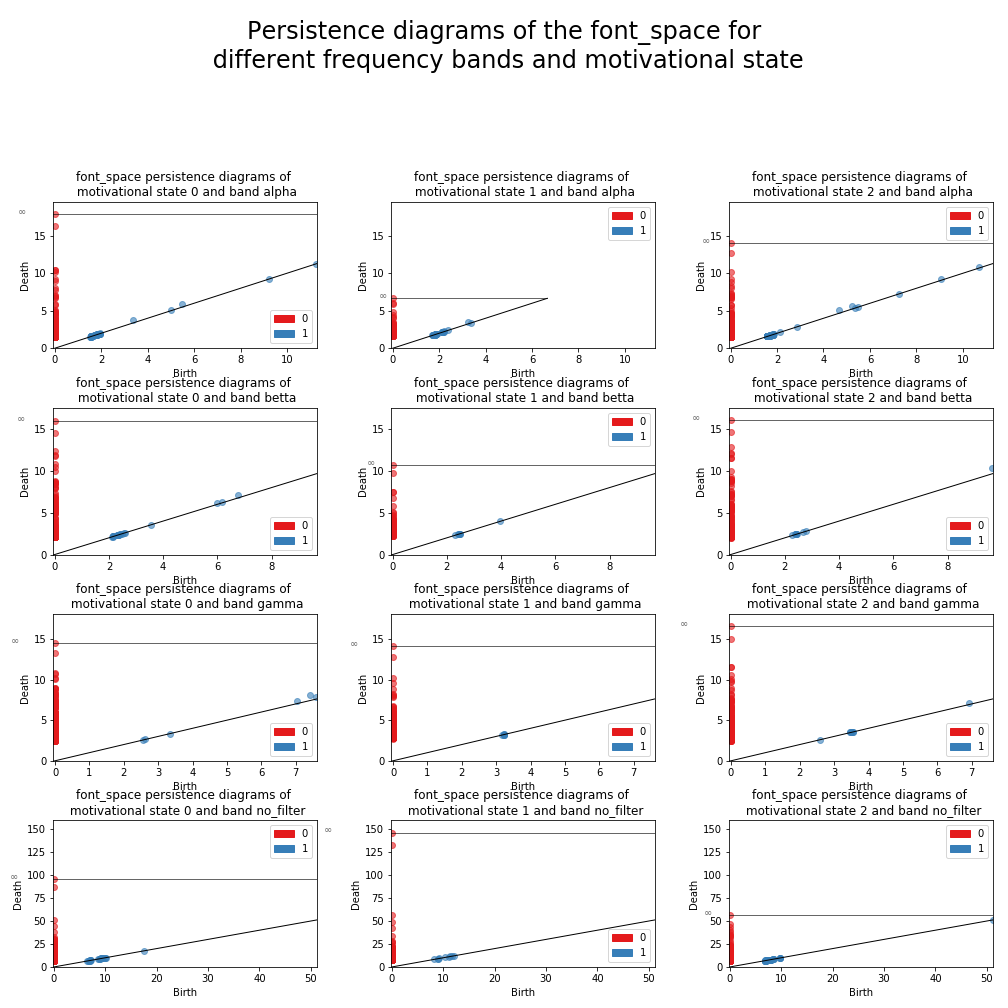
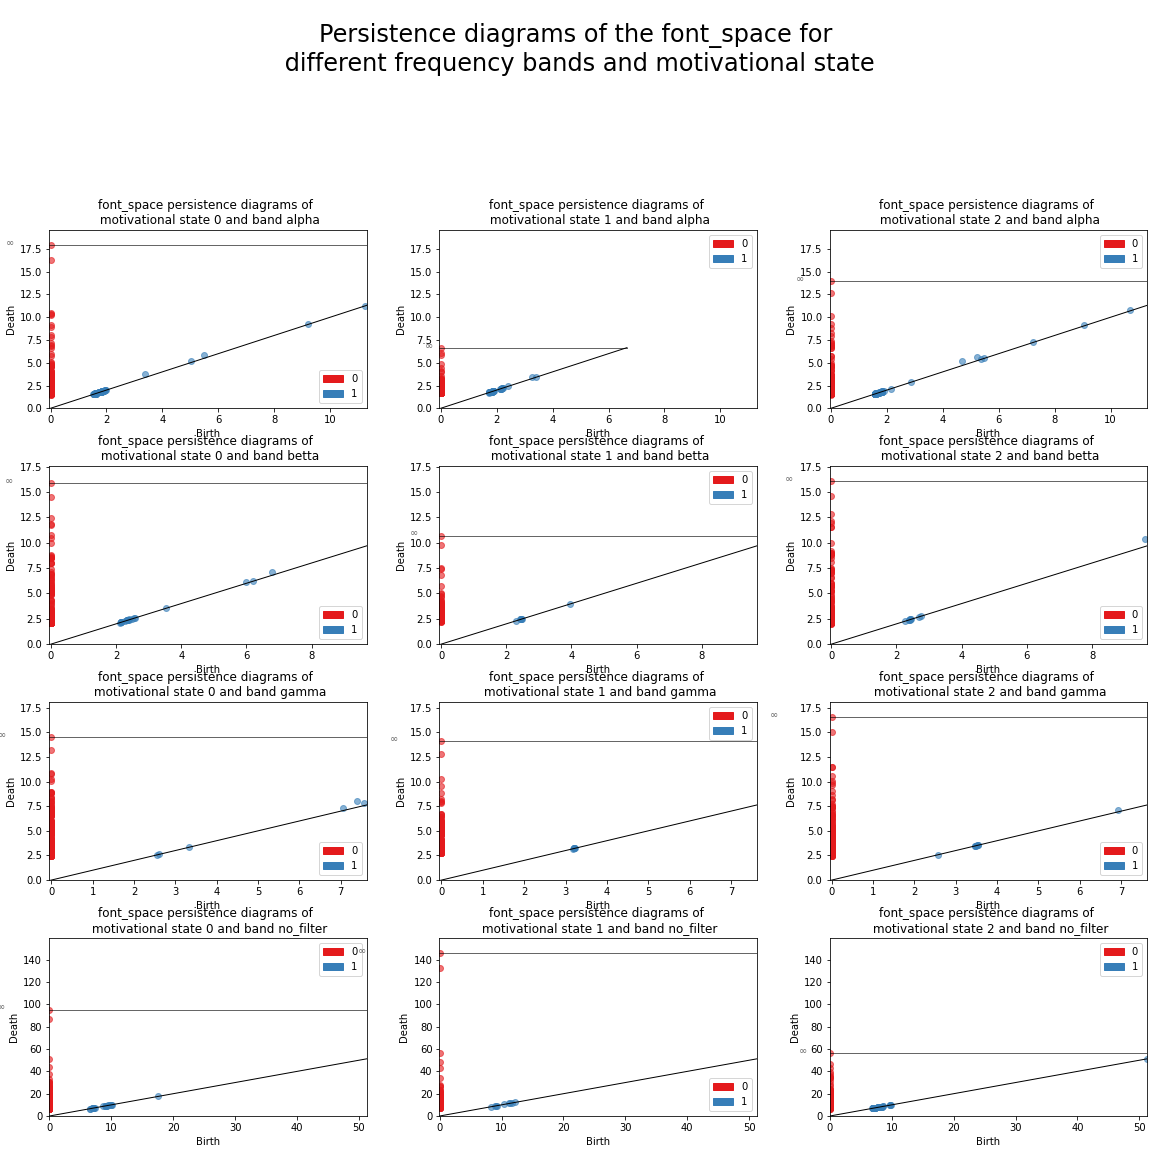
max pooling and entropy completed

diff --git a/topological_descriptors.py b/topological_descriptors.py
@@ -89,22 +89,32 @@ def compute_basicstats(zero_dim,one_dim,subj_dir,space,measure,feat='life',pool_
             zero_lifes[i].append(np.array(list(map(fun, zero_dim[i][j]))))
             one_lifes[i].append(np.array(list(map(fun, one_dim[i][j]))))
             zero_L=zero_lifes[i][j].sum()
-            zero_avg_lifes.append(zero_L/len(zero_lifes[i][j]))
+            n_zero=len(zero_lifes[i][j])
+            if  n_zero==0:
+                zero_avg_lifes.append(-1)
+                zero_std_lifes.append(-1)
+            else:
+                zero_avg_lifes.append(zero_L/ n_zero)
+                zero_std_lifes.append(zero_lifes[i][j].std())
             one_L=one_lifes[i][j].sum()
-            one_avg_lifes.append(one_L/(len(one_lifes[i][j])))
-            zero_std_lifes.append(zero_lifes[i][j].std())
-            one_std_lifes.append(one_lifes[i][j].std())
+            n_one=len(one_lifes[i][j])
+            if  n_one==0:
+                one_avg_lifes.append(-1)
+                one_std_lifes.append(-1)
+            else:
+                one_avg_lifes.append(zero_L/ n_one)
+                one_std_lifes.append(one_lifes[i][j].std())
+
             
             if feat=='life':
-                n_zero=len(zero_lifes[i][j])
+            
                 zero_lifes[i][j].sort()
                 zero_pooling_vector[i,j]=np.array([zero_lifes[i][j][-k] if k<=n_zero else 0 for k in range(1,pool_n+1)],dtype=object)
-                n_one=len(one_lifes[i][j])
                 one_lifes[i][j].sort()
                 one_pooling_vector[i,j]=np.array([one_lifes[i][j][-k] if k<=n_one else 0 for k in range(1,pool_n+1)],dtype=object)
                 zero_persistent_temp=[]
                 one_persistent_temp=[]
-                fun_entr= lambda x: ((x[1]-x[0])/L)*np.log2((x[1]-x[0])/L)
+                fun_entr= lambda x: ((x[1]-x[0])/L)*np.log2((x[1]-x[0])/L if L!=0 else -1)
                 L=zero_L
                 zero_persistent_temp.append(np.array(list(map(fun_entr, zero_dim[i][j]))))
                 L=one_L
@@ -134,14 +144,14 @@ def compute_basicstats(zero_dim,one_dim,subj_dir,space,measure,feat='life',pool_
         pooling_table=pd.concat([pooling_table_dim0,pooling_table_dim1])
 
     
-    fig, axes = plt.subplots(nrows=2, ncols=4, figsize=(24, 14))
+    fig, axes = plt.subplots(nrows=2, ncols=4, figsize=(14, 14))
     for i in range(-1,3):
         for j in range(3):
             zero_lifes[i][j]=zero_lifes[i][j].flatten()
             one_lifes[i][j]=one_lifes[i][j].flatten()
         axes[0][i].boxplot(zero_lifes[i],showfliers=False)
         axes[0][i].set_title(feat+' BoxPlot dimension 0 of band '+band_dic[i])
-        axes[1][i].boxplot(np.array(one_lifes[i],dtype=object),showfliers=False)
+        axes[1][i].boxplot(one_lifes[i],showfliers=False)
         axes[1][i].set_title(feat+' BoxPlot dimension 1 of band '+band_dic[i])
         #a.set_xlim(-0.05,x_max)
         #a.set_ylim(0,y_max)

diff --git a/EEGs_persistence.py b/EEGs_persistence.py
@@ -126,7 +126,7 @@ def plot_persistence(persistence_dic,subj_dir,intervals=1000,repre='diagrams',sp
         plot_func=lambda x,axes: gd.plot_persistence_diagram(x,legend=True,max_intervals=intervals,axes=axes)#,inf_delta=0.5)
     else:
         plot_func=lambda x,axes: gd.plot_persistence_barcode(x,legend=True,max_intervals=intervals,axes=axes)
-    fig, axes = plt.subplots(nrows=4, ncols=3, figsize=(14, 14))
+    fig, axes = plt.subplots(nrows=4, ncols=3, figsize=(16, 16))
     band_dic={-1: 'no_filter', 0:'alpha',1:'betta',2:'gamma'}
     for i in range(-1,3):
         aux_lis=np.array([persistence_dic[i][0],persistence_dic[i][1],persistence_dic[i][2]], dtype=object)
@@ -138,7 +138,7 @@ def plot_persistence(persistence_dic,subj_dir,intervals=1000,repre='diagrams',sp
             a.set_xlim(-0.05,x_max)
             a.set_ylim(0,y_max)
     fig.suptitle('Persistence {0} of the {1} for\n different frequency bands and motivational state'.format(repre,space),fontsize=24)
-    fig.tight_layout(pad=1.00)
+    fig.tight_layout(pad=0.5)
     fig.subplots_adjust(top=0.8)
     
     if save:
